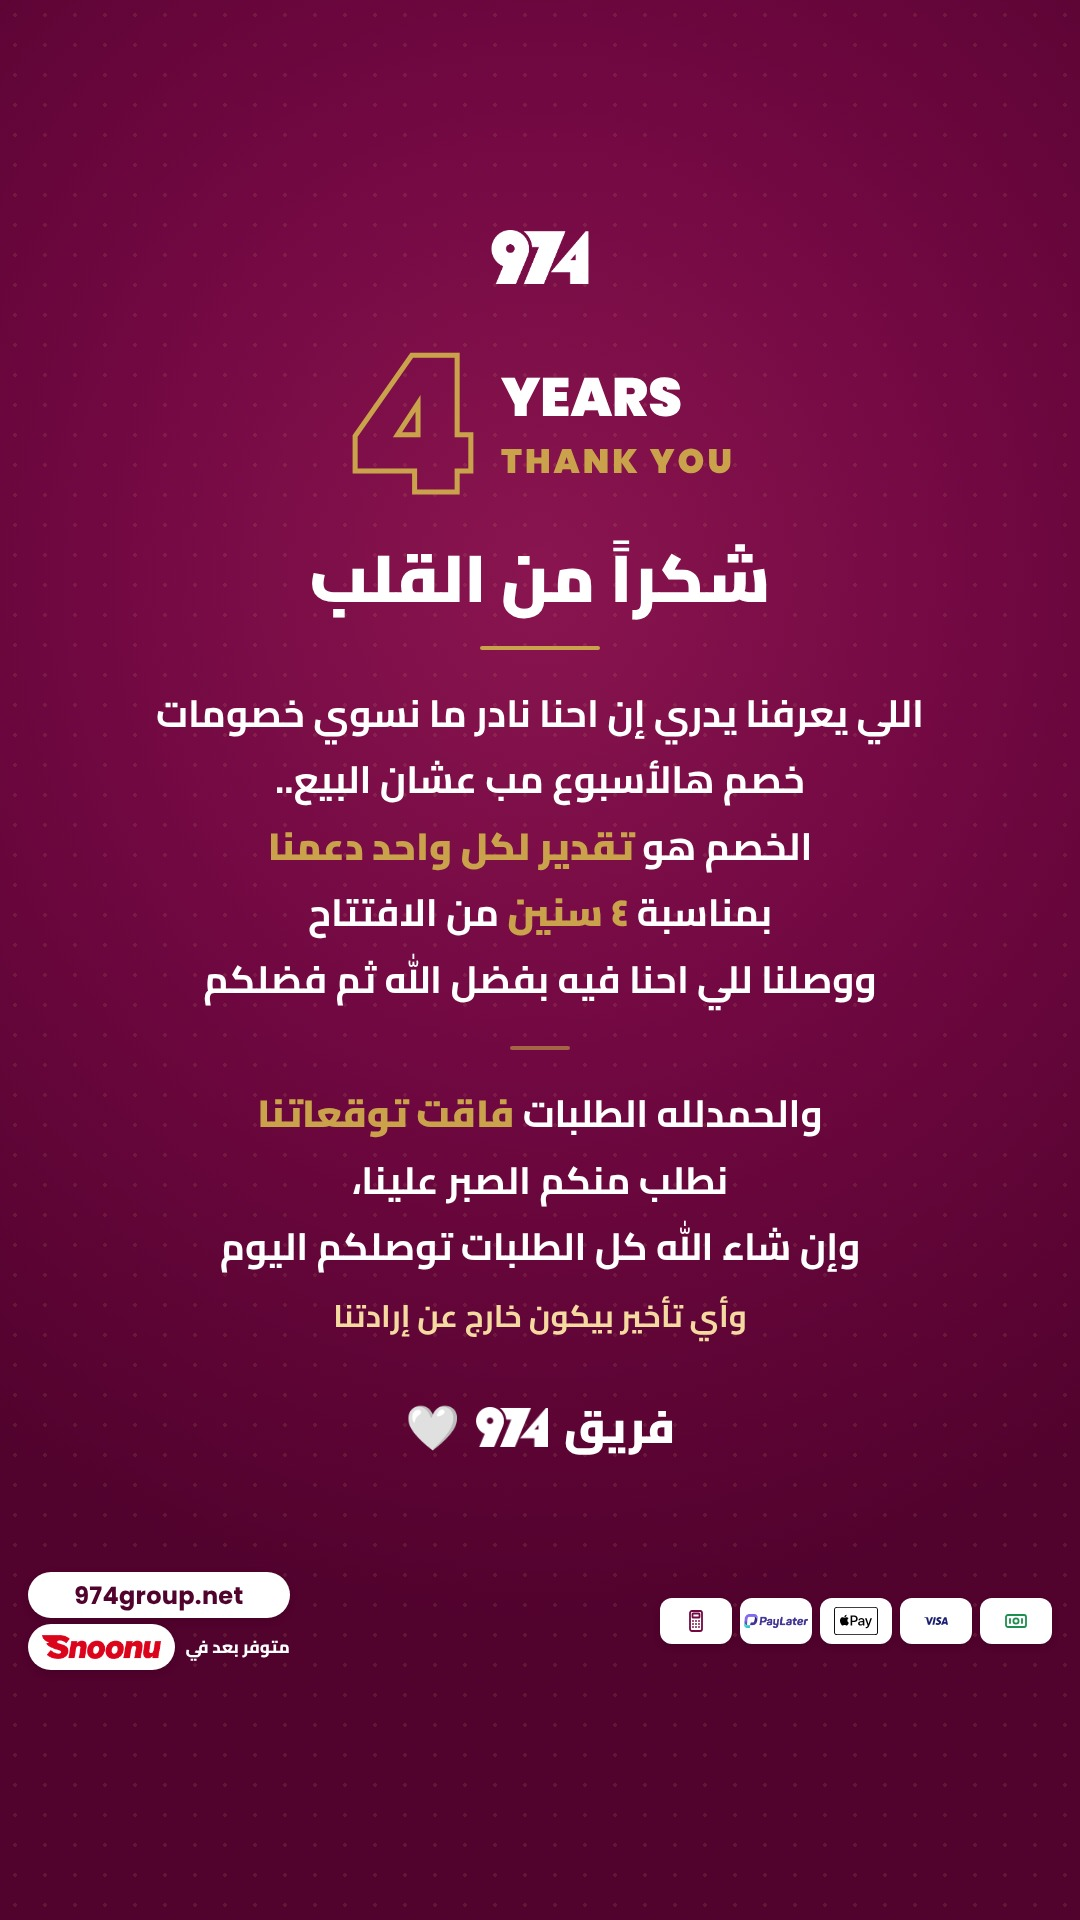
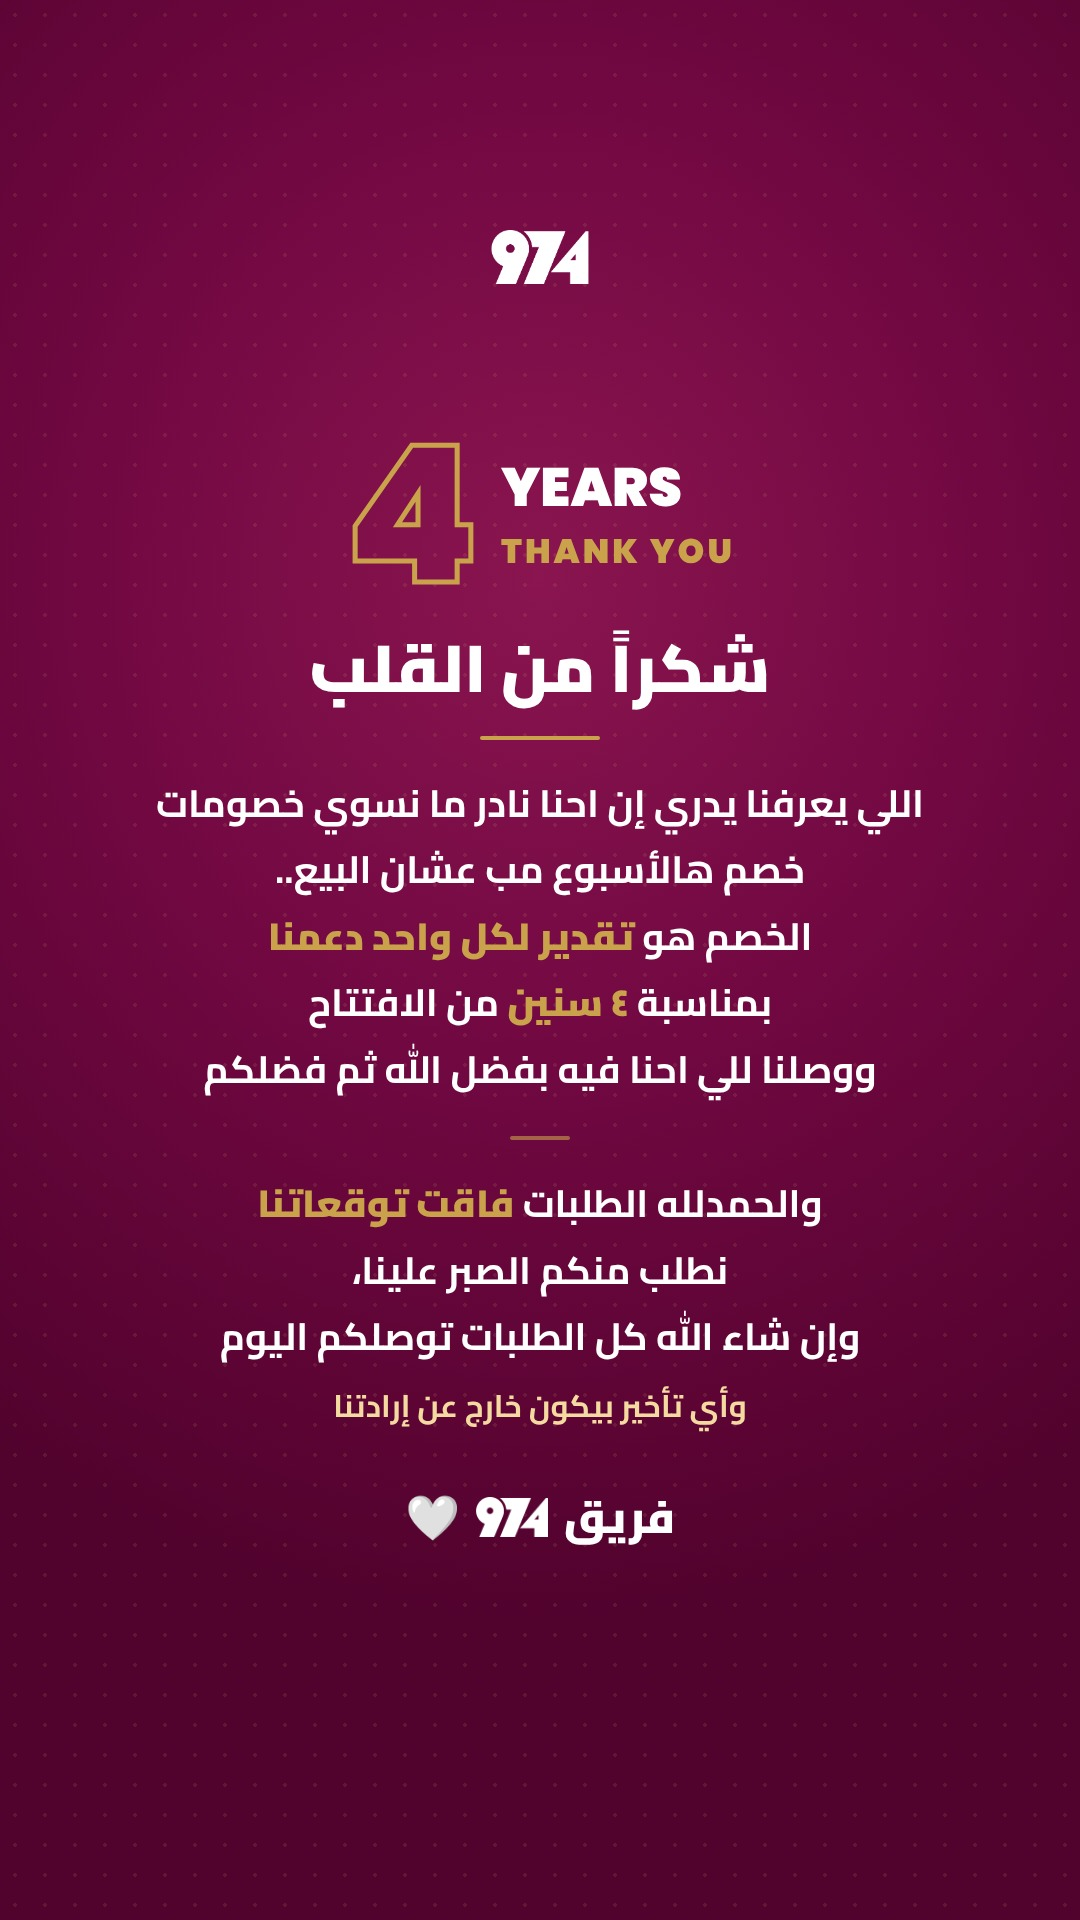
Thank-you story: no payfoot (owner request)
Claude-Session: https://claude.ai/code/session_01K6HDWNrArsGSJekW1VcEzV

Changed region(s): [[0.1528, 0.1562, 0.9778, 0.875], [0.0306, 0.8125, 0.275, 0.875], [0.825, 0.3438, 0.8556, 0.375]]

diff --git a/posts/2026-11/anniversary-4/thanks.py b/posts/2026-11/anniversary-4/thanks.py
@@ -6,13 +6,14 @@ M, DEEP, GOLD = '#720842', '#51022D', '#C9A24B'
 CSS = '''
 .t{font-family:Cairo;color:#fff;text-align:center;direction:rtl}
 .P{font-family:Poppins;font-weight:900}
+/* owner asked: no payfoot on this story */ .pf{display:none!important}
 .ln{width:120px;height:4px;background:%s;margin:0 auto;border-radius:4px}
 ''' % GOLD
 def page():
     body = f'''<div class="abs" style="inset:0;background:radial-gradient(90% 55% at 50% 30%,#8A1550 0%,{M} 45%,{DEEP} 100%)"></div>
 <div class="abs" style="inset:0;background-image:radial-gradient(rgba(232,200,120,.10) 1.6px,transparent 1.7px);background-size:30px 30px"></div><!--/bk-->
 <img class="abs" src="file://{G.LW}" style="left:50%;transform:translateX(-50%);top:0;height:54px">
-<div class="abs t" style="left:70px;right:70px;top:110px">
+<div class="abs t" style="left:70px;right:70px;top:200px">
   <div style="display:flex;justify-content:center;align-items:center;gap:22px;direction:ltr">
     <span class="P" style="font-size:190px;line-height:.9;color:transparent;-webkit-text-stroke:5px {GOLD}">4</span>
     <span class="P" style="font-size:54px;line-height:1.05;color:#fff;text-align:left">YEARS<br><span style="color:{GOLD};font-size:34px;letter-spacing:3px">THANK YOU</span></span>
